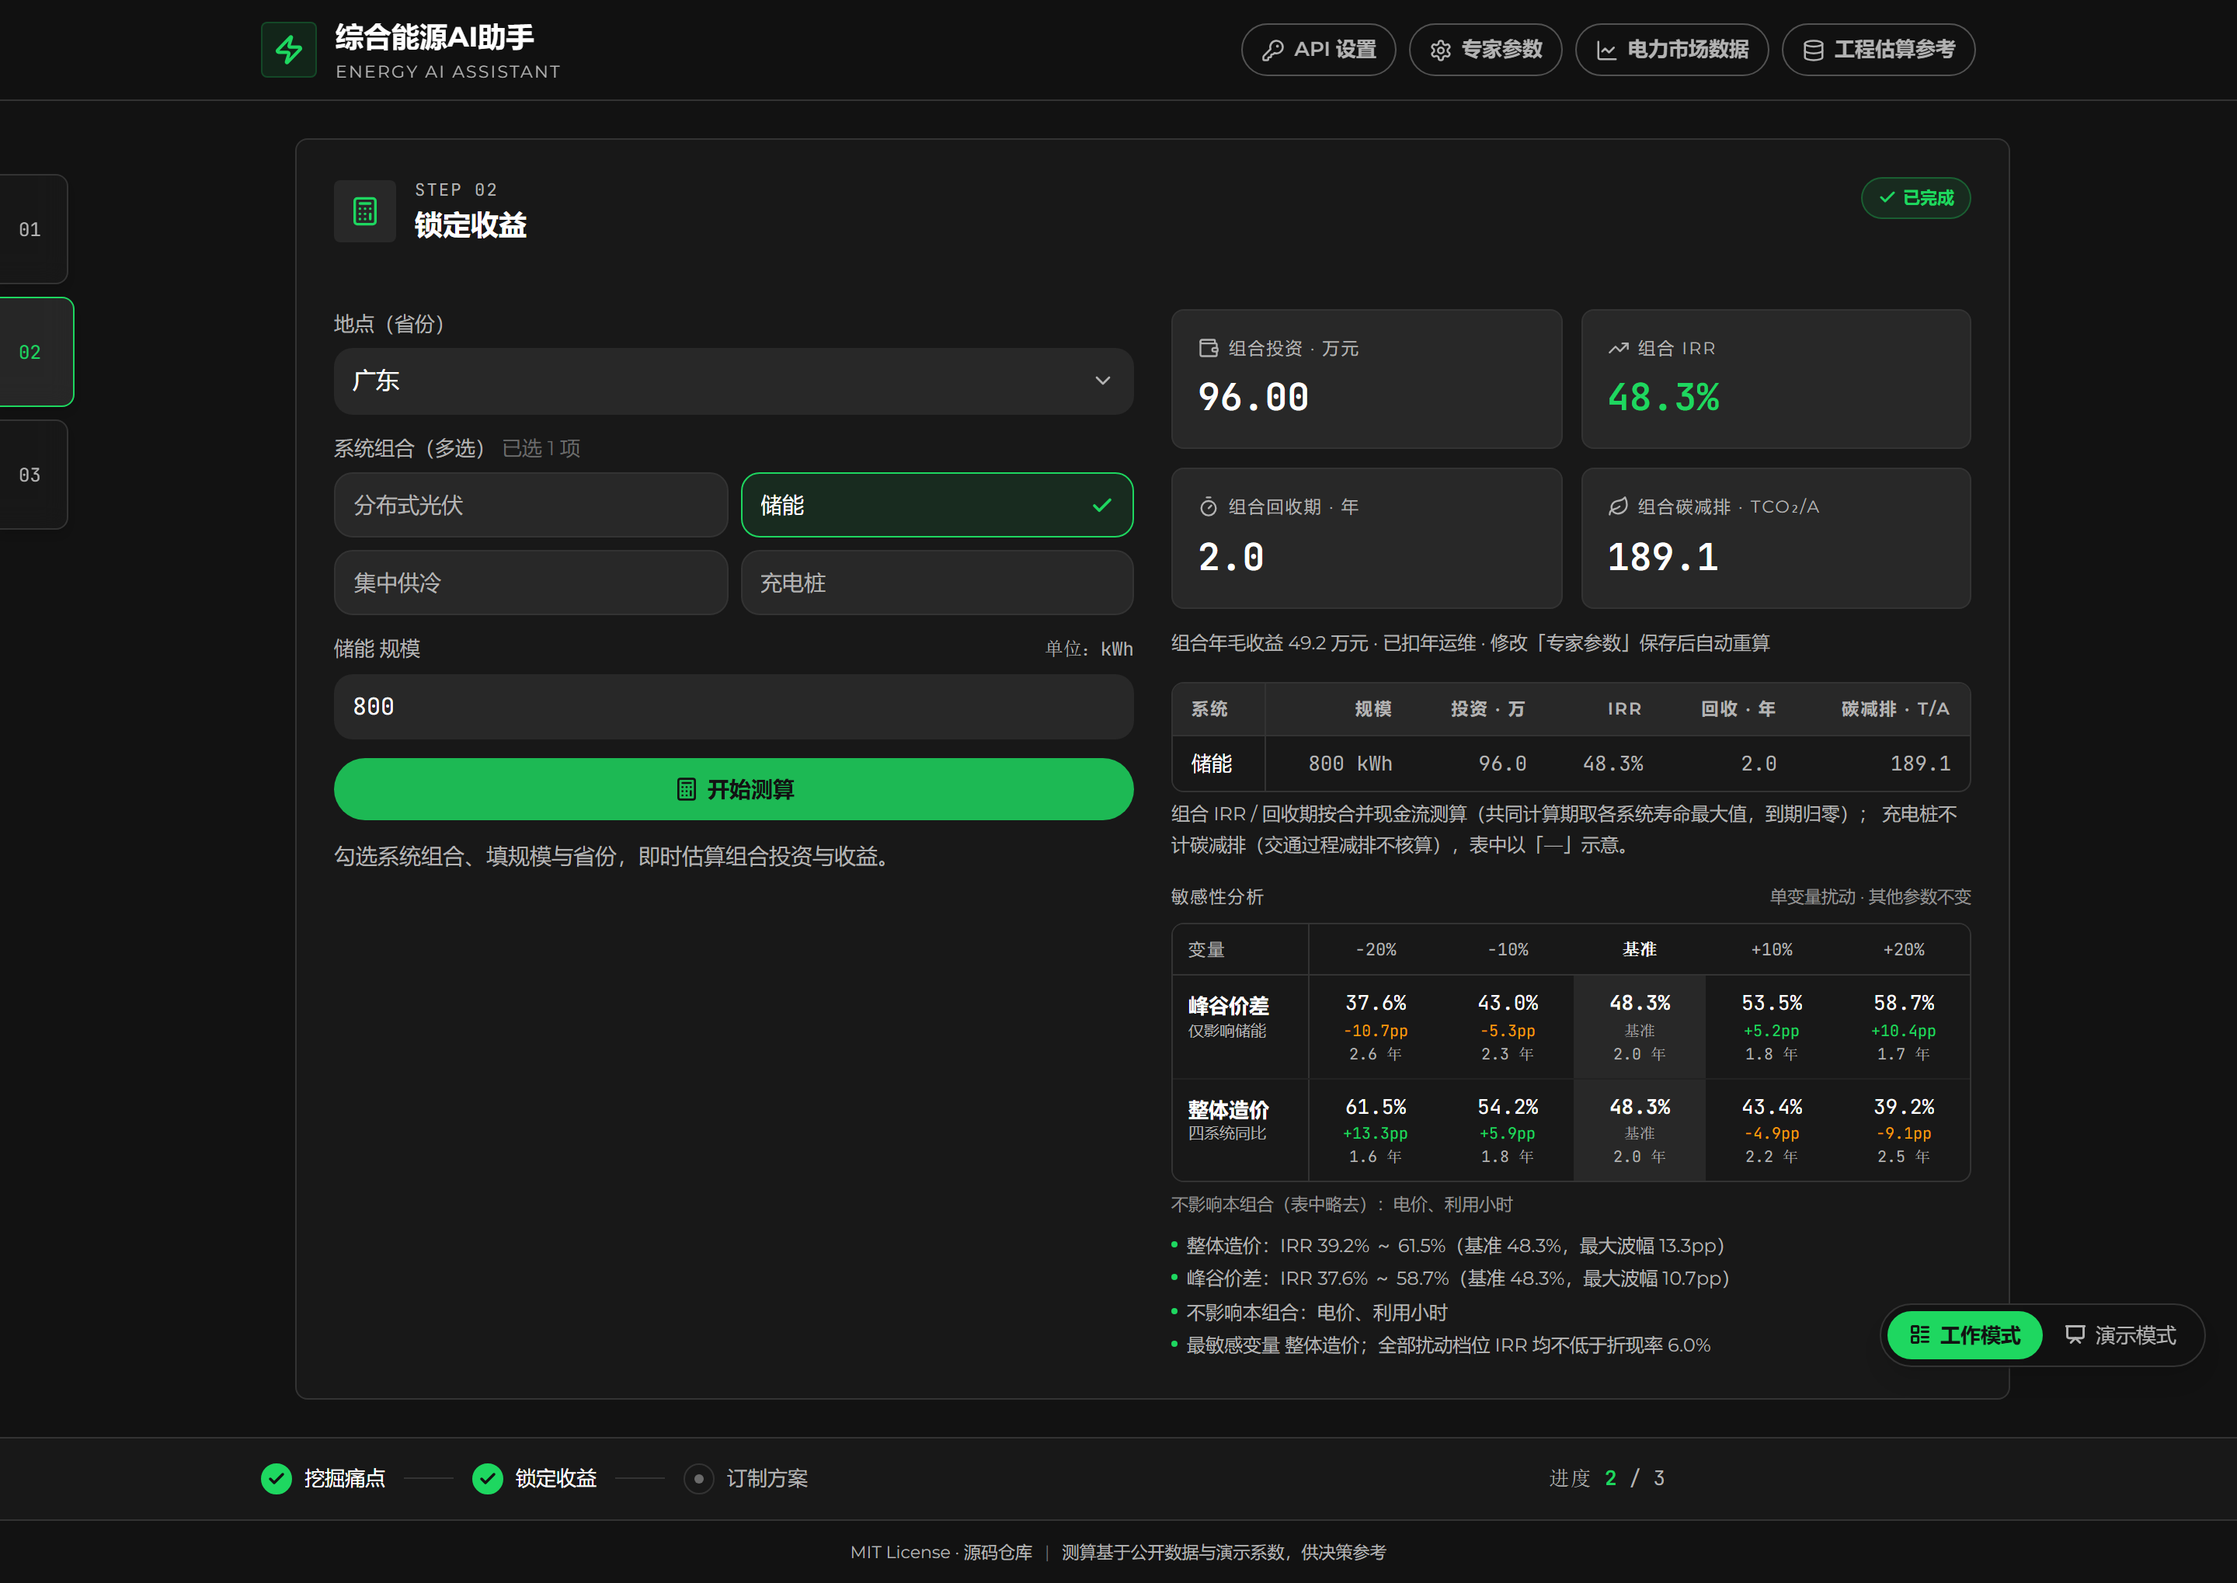
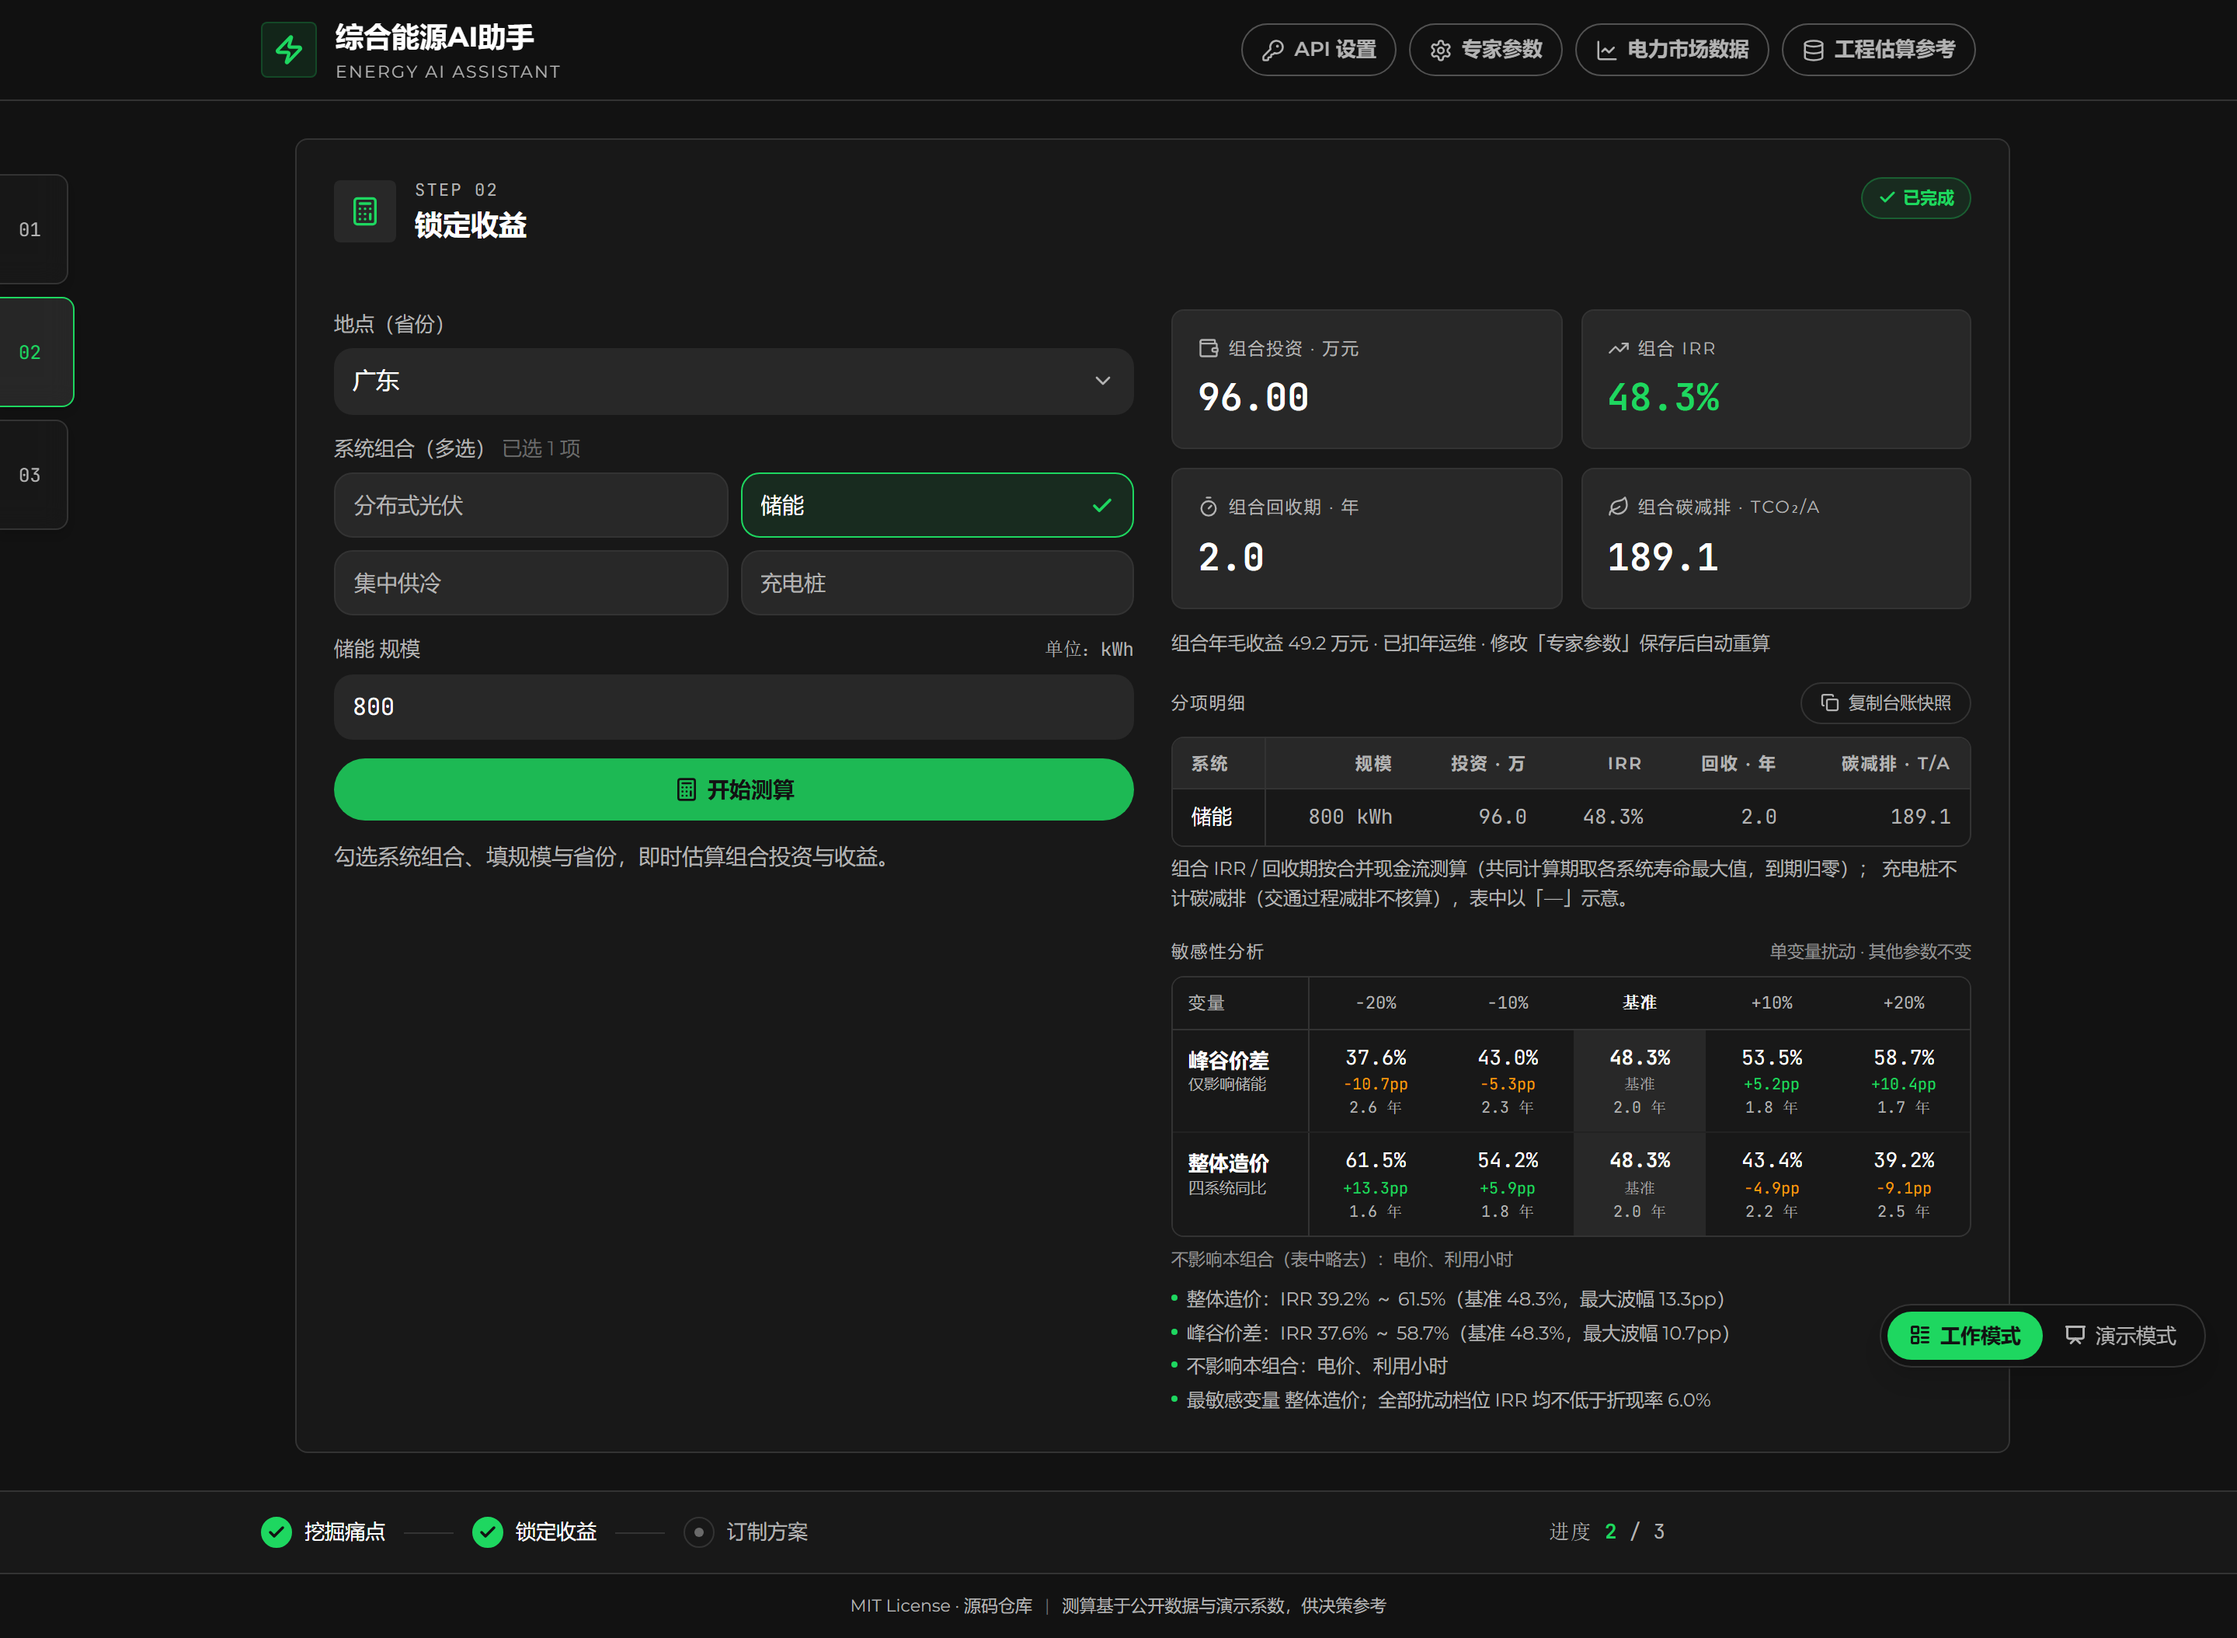
Add ledger snapshot copy (TSV) to module 2 results for shadow-calc backtesting

diff --git a/src/components/calculator/FeasibilityResults.jsx b/src/components/calculator/FeasibilityResults.jsx
@@ -1,11 +1,12 @@
-import { useEffect, useMemo } from 'react'
-import { Leaf, Timer, TrendingUp, Wallet } from 'lucide-react'
+import { useEffect, useMemo, useRef, useState } from 'react'
+import { Check, Copy, Leaf, Timer, TrendingUp, Wallet } from 'lucide-react'
 import DataCard from '../ui/DataCard'
 import SensitivityTable from './SensitivityTable'
 import { PROJECT_TYPES, useProjectStore } from '../../stores/projectStore'
 import { useConfigStore } from '../../stores/configStore'
 import { calculateFeasibility } from '../../utils/finance'
 import { buildSensitivity } from '../../utils/sensitivity'
+import { buildLedgerSnapshot, copyText } from '../../utils/export'
 
 /**
  * 模块② 结果区（组合测算）：4 张组合总账数据卡 + 分项明细表
@@ -17,6 +18,10 @@ export default function FeasibilityResults() {
   const config = useConfigStore((s) => s.config)
   const feasibility = useProjectStore((s) => s.feasibility)
   const isFeasibleDone = useProjectStore((s) => s.isFeasibleDone)
+
+  // 台账快照复制反馈：成功切「已复制 ✓」1.5s（同模块③ 复制按钮的微交互）
+  const [snapCopied, setSnapCopied] = useState(false)
+  const snapTimer = useRef(null)
 
   // config 引用仅在「保存配置 / 恢复默认」时变化；
   // 通过 getState() 取最新 inputs，避免把表单输入卷进依赖导致逐键重算
@@ -63,6 +68,16 @@ export default function FeasibilityResults() {
   // 格式化约定：投资 2 位、IRR 1 位百分数、回收期 1 位、碳减排 1 位
   const payback = total.paybackPeriod === 'N/A' ? 'N/A' : total.paybackPeriod.toFixed(1)
 
+  // 台账快照：影子测算 / 回测台账对账用（内部工具，不进对客报告）
+  const handleSnapshot = async () => {
+    const ok = await copyText(buildLedgerSnapshot(feasibility, config, PROJECT_TYPES))
+    if (ok) {
+      setSnapCopied(true)
+      window.clearTimeout(snapTimer.current)
+      snapTimer.current = window.setTimeout(() => setSnapCopied(false), 1500)
+    }
+  }
+
   return (
     <div className="mt-5 min-w-0">
       {/* 组合总账 */}
@@ -77,11 +92,34 @@ export default function FeasibilityResults() {
         修改「专家参数」保存后自动重算
       </p>
 
+      {/* 分项明细节头：右侧「复制台账快照」= 影子测算 / 回测台账的对账入口
+          （TSV 贴 Excel 自动分列；身份行含当次 AS_OF 数据版本，关键参数与报告
+          附表同源）。内部工具入口，不出现在打印报告 */}
+      <div className="mt-4 mb-2 flex items-center justify-between gap-2">
+        <p className="text-[11px] uppercase tracking-widest text-paper-mute">分项明细</p>
+        <button
+          type="button"
+          onClick={handleSnapshot}
+          className={`flex shrink-0 items-center gap-1.5 rounded-full border px-3 py-1 text-[11px] transition-colors focus:outline-none focus-visible:ring-2 focus-visible:ring-volt ${
+            snapCopied
+              ? 'border-volt/40 text-volt'
+              : 'border-line text-paper-mute hover:border-paper-mute hover:text-paper'
+          }`}
+        >
+          {snapCopied ? (
+            <Check size={12} strokeWidth={2.5} />
+          ) : (
+            <Copy size={12} strokeWidth={2.25} />
+          )}
+          {snapCopied ? '已复制' : '复制台账快照'}
+        </button>
+      </div>
+
       {/* 分项明细表：窄屏容器内横滑看全列（列宽不压扁、不出卡片），宽屏照常铺满。
           首列「系统」sticky 固定（同敏感性表）：横滑时行名不跟滑；底色取行底
           （表头 ink-raised / 数据行卡面 ink-panel，hover 随行变 ink-hover——tr 加
           group、sticky td 用 group-hover 同步），右缘细分隔线区分固定区与滑动区 */}
-      <div className="mt-4 overflow-x-auto rounded-lg border border-line">
+      <div className="overflow-x-auto rounded-lg border border-line">
         <table className="w-full min-w-[480px] text-[13px]">
           <thead>
             <tr className="border-b border-line bg-ink-raised text-[11px] uppercase tracking-widest text-paper-mute">

diff --git a/src/utils/export.js b/src/utils/export.js
@@ -2,6 +2,74 @@
  * 复制 / 导出（CLAUDE.md §4）。
  * 导出 PDF 暂用 window.print() + 打印样式实现，Sprint 4 再评估 html2canvas + jspdf。
  */
+import { keyParams } from './report'
+import { SPREAD_AS_OF, ELECP_AS_OF, CYCLES_AS_OF, CHARGER_RATIO_AS_OF } from '../data/coefficients'
+
+/**
+ * 测算台账快照（影子测算 / 回测台账的对账入口）：把模块② 当次组合测算结果组装为
+ * Tab 分隔文本，贴进 Excel 自动分列。结构对应台账四 Sheet：
+ *   首行   = 项目身份（测算日期 / 省份 / 数据版本 AS_OF / 项目编号列留空手填）
+ *   分项表 = 预测快照（分项 + 合计：投资 / IRR / 回收期 / 碳减排）
+ *   参数段 = 当次关键系数（keyParams，与报告附表同源——台账与报告数字可互证）
+ * 纯函数：不触 DOM、不读 store；types（PROJECT_TYPES）由组件层喂入，保持 utils
+ * 不依赖 stores 的方向纪律
+ * @param {object|null} feasibility calculateFeasibility 的结果（projectStore.feasibility）
+ * @param {object} config configStore 的系数快照
+ * @param {Array} types PROJECT_TYPES（label / scaleUnit 来源）
+ * @returns {string} TSV 文本；feasibility 为空时返回空串
+ */
+export const buildLedgerSnapshot = (feasibility, config, types) => {
+  if (!feasibility) return ''
+  const { total, items, province } = feasibility
+  const meta = (t) => types.find((x) => x.key === t)
+  const irr = (v) => (Number.isFinite(v) ? `${(v * 100).toFixed(1)}%` : '—')
+  const payback = (v) => (v === 'N/A' ? 'N/A' : v.toFixed(1))
+  const carbon = (v) => (v > 0 ? v.toFixed(1) : '—')
+
+  const lines = []
+  lines.push(
+    [
+      '测算快照',
+      new Date().toLocaleDateString('zh-CN'),
+      province,
+      `数据版本 电价${ELECP_AS_OF}/价差${SPREAD_AS_OF}/分时${CYCLES_AS_OF}/配建${CHARGER_RATIO_AS_OF}`,
+      '项目编号（手填）',
+    ].join('\t'),
+  )
+  lines.push('')
+  lines.push(['系统', '规模', '投资·万元', 'IRR', '回收期·年', '碳减排·tCO₂/a'].join('\t'))
+  items.forEach((it) =>
+    lines.push(
+      [
+        meta(it.type)?.label ?? it.type,
+        `${it.capacity} ${meta(it.type)?.scaleUnit ?? ''}`,
+        it.totalInvestment.toFixed(1),
+        irr(it.irr),
+        payback(it.paybackPeriod),
+        carbon(it.carbonReduction),
+      ].join('\t'),
+    ),
+  )
+  lines.push(
+    [
+      '合计',
+      '—',
+      total.totalInvestment.toFixed(2),
+      irr(total.irr),
+      payback(total.paybackPeriod),
+      carbon(total.carbonReduction),
+    ].join('\t'),
+  )
+  lines.push('')
+  lines.push('关键参数')
+  const systems = Object.fromEntries(
+    items.map((it) => [it.type, { enabled: true, capacity: it.capacity }]),
+  )
+  keyParams(systems, config, province).forEach(([k, v]) => lines.push([k, v].join('\t')))
+  // 组合年毛收益随参数段入账：收益回测（预测收益 vs 结算收益）的对账基准
+  lines.push(['组合年毛收益·万元', total.annualRevenue.toFixed(1)].join('\t'))
+  return lines.join('\n')
+}
 
 /** 复制文本到剪贴板，返回是否成功（含非安全上下文的 execCommand 兜底） */
 export const copyText = async (text) => {

diff --git a/README.md b/README.md
@@ -30,7 +30,7 @@
 
 ### ② 锁定收益 · Evaluate
 
-系统组合 × 规模 × 省份 → 组合总账（投资 / IRR / 回收期 / 碳减排）、分项明细与单变量敏感性分析（电价 / 峰谷价差 / 利用小时 / 整体造价四轴 ±10%/±20%），独立可用（投标测算 / 客户自带明确需求场景）。
+系统组合 × 规模 × 省份 → 组合总账（投资 / IRR / 回收期 / 碳减排）、分项明细与单变量敏感性分析（电价 / 峰谷价差 / 利用小时 / 整体造价四轴 ±10%/±20%），独立可用（投标测算 / 客户自带明确需求场景）；测算结果可一键复制为台账快照（TSV 贴入 Excel 自动分列，含当次系数版本——供影子测算与回测对账）。
 
 ![测算页](docs/screenshots/02-calculator.png)
 
